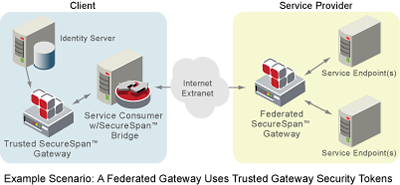
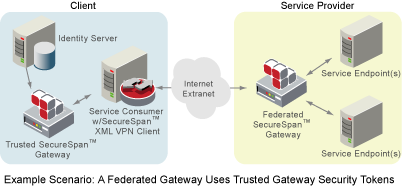
Rebranding "Bridge" as "XML VPN Client"
git-svn-id: https://thesource.l7tech.com/thesource/UneasyRooster/trunk@15561 219f1c6e-4a0e-43c8-96f2-6e749be13fd4

diff --git a/src/com/l7tech/proxy/gui/Main.java b/src/com/l7tech/proxy/gui/Main.java
@@ -6,6 +6,8 @@ import com.l7tech.common.util.JdkLoggerConfigurator;
 import com.l7tech.proxy.datamodel.Managers;
 import com.l7tech.proxy.datamodel.SsgManagerImpl;
 import com.l7tech.proxy.ClientProxy;
+import com.l7tech.proxy.Constants;
+
 import org.mortbay.util.MultiException;
 
 import java.net.BindException;
@@ -60,7 +62,7 @@ public final class Main extends com.l7tech.proxy.Main {
         
         JdkLoggerConfigurator.configure("com.l7tech.proxy", "com/l7tech/proxy/resources/cliLogging.properties");
         JceProvider.init();
-        log.info("Starting SecureSpan Bridge GUI Configuration Editor; " + BuildInfo.getLongBuildString());
+        log.info("Starting SecureSpan "+ Constants.APP_NAME +" GUI Configuration Editor; " + BuildInfo.getLongBuildString());
 
         if (hideMenus && quitLabel == null) 
             quitLabel = "Quit";
@@ -86,7 +88,7 @@ public final class Main extends com.l7tech.proxy.Main {
 
     private static void startGuiBridge() {
         initLogging();
-        log.info("Starting SecureSpan Bridge in GUI mode; " + BuildInfo.getLongBuildString());
+        log.info("Starting SecureSpan "+ Constants.APP_NAME +" in GUI mode; " + BuildInfo.getLongBuildString());
 
         final SsgManagerImpl ssgManager = SsgManagerImpl.getSsgManagerImpl();
         final ClientProxy clientProxy = createClientProxy(ssgManager);
@@ -102,12 +104,12 @@ public final class Main extends com.l7tech.proxy.Main {
         try {
             clientProxy.start();
         } catch (Exception e) {
-            String message = "Unable to start the Bridge: " + e;
+            String message = "Unable to start the "+ Constants.APP_NAME +": " + e;
             // Friendlier error message for starting multiple instances
             if (e instanceof BindException ||
               (e instanceof MultiException && ((MultiException)e).getException(0) instanceof BindException)) {
-                message = "The SecureSpan Bridge is already running.  \nPlease shut down the existing " +
-                  "Bridge and try again.";
+                message = "The SecureSpan "+ Constants.APP_NAME +" is already running.  \nPlease shut down the existing " +
+                  Constants.APP_NAME + " and try again.";
             }
 
             Gui.errorMessage(message);

diff --git a/src/com/l7tech/server/GatewayFeatureSets.java b/src/com/l7tech/server/GatewayFeatureSets.java
@@ -122,7 +122,7 @@ public class GatewayFeatureSets {
             ass(JmsRoutingAssertion.class));
 
         GatewayFeatureSet ssb =
-        fsr("set:ssb", "Features needed for best use of the SecureSpan Bridge",
+        fsr("set:ssb", "Features needed for best use of the SecureSpan XML VPN Client",
             srv(SERVICE_CSRHANDLER, "Certificate signer (CA) service"),
             srv(SERVICE_PASSWD, "Internal user password change service"),
             srv(SERVICE_POLICYDISCO, "Policy discovery service"),
@@ -391,7 +391,7 @@ public class GatewayFeatureSets {
             fs(threatAccel));
 
         fsp("set:Profile:Firewall", "SecureSpan Firewall",
-            "XML firewall with custom assertions.  No BRA, no JMS, no special Bridge support",
+            "XML firewall with custom assertions.  No BRA, no JMS, no special XML VPN Client support",
             fs(core),
             fs(admin),
             fs(accessFw),
@@ -407,7 +407,7 @@ public class GatewayFeatureSets {
         PROFILE_ALL =
         fsp("set:Profile:Gateway", "SecureSpan Gateway",
             "All features enabled.",
-            misc("bundle:Bridge", "Bundled SecureSpan Bridge", "No effect on Gateway license code -- only purpose is to distinguish two otherwise-identical feature sets"),
+            misc("bundle:Bridge", "Bundled SecureSpan XML VPN Client", "No effect on Gateway license code -- only purpose is to distinguish two otherwise-identical feature sets"),
             fs(core),
             fs(admin),
             fs(accessGateway),
@@ -424,7 +424,7 @@ public class GatewayFeatureSets {
             fs(experimental));
 
         fsp("set:Profile:Federal", "SecureSpan Federal",
-            "Exactly the same features as SecureSpan Gateway, but Bridge software is not bundled.",
+            "Exactly the same features as SecureSpan Gateway, but XML VPN Client software is not bundled.",
             fs(core),
             fs(admin),
             fs(accessGateway),

diff --git a/src/com/l7tech/proxy/gui/Gui.java b/src/com/l7tech/proxy/gui/Gui.java
@@ -8,6 +8,7 @@ import com.l7tech.common.gui.util.Utilities;
 import com.l7tech.common.gui.util.HelpUtil;
 import com.l7tech.common.util.JavaVersionChecker;
 import com.l7tech.proxy.RequestInterceptor;
+import com.l7tech.proxy.Constants;
 import com.l7tech.proxy.datamodel.SsgManager;
 import com.l7tech.proxy.gui.dialogs.AboutBox;
 import com.l7tech.proxy.gui.util.IconManager;
@@ -34,7 +35,7 @@ public class Gui {
     // that uses it
     private static final String APPLICATION_HOME_PROPERTY = "com.l7tech.applicationHome";
 
-    public static final String APP_NAME = "SecureSpan Bridge";
+    public static final String APP_NAME = "SecureSpan " + Constants.APP_NAME;
 
     private static final String KUNSTSTOFF_CLASSNAME = "com.incors.plaf.kunststoff.KunststoffLookAndFeel";
     private static final String KUNSTSTOFF_THEME_CLASSNAME = "com.incors.plaf.kunststoff.themes.KunststoffDesktopTheme";
@@ -46,7 +47,7 @@ public class Gui {
     private JFrame frame;
     private MessageViewer messageViewer;
 
-    private static final String SYSTRAY_TOOLTIP = "SecureSpan Bridge";
+    private static final String SYSTRAY_TOOLTIP = APP_NAME;
     private static final String WINDOW_TITLE = APP_NAME;
     private static final String WINDOW_TITLE_CONFIG = "Configure " + APP_NAME;
     private static final String MESSAGE_WINDOW_TITLE = "Recent Message Traffic";
@@ -257,7 +258,7 @@ public class Gui {
 
         SysTrayMenuItem smExit = new SysTrayMenuItem( "Exit", "exit" );
         smExit.addSysTrayMenuListener( systrayListener );
-        SysTrayMenuItem smShow = new SysTrayMenuItem( "Show Bridge window", "show" );
+        SysTrayMenuItem smShow = new SysTrayMenuItem( "Show "+ Constants.APP_NAME+" window", "show" );
         smShow.addSysTrayMenuListener( systrayListener );
 
         sysTrayMenu = new SysTrayMenu( systrayMenuIcon, SYSTRAY_TOOLTIP );

diff --git a/src/com/l7tech/proxy/gui/dialogs/SsgNetworkPanel.java b/src/com/l7tech/proxy/gui/dialogs/SsgNetworkPanel.java
@@ -12,17 +12,15 @@ import com.l7tech.common.gui.util.RunOnChangeListener;
 import com.l7tech.common.gui.widgets.ContextMenuTextField;
 import com.l7tech.common.gui.widgets.IpListPanel;
 import com.l7tech.common.gui.widgets.WrappingLabel;
-import com.l7tech.common.gui.MaxLengthDocument;
 import com.l7tech.common.gui.FilterDocument;
 import com.l7tech.common.util.HexUtils;
 import com.l7tech.common.util.SyspropUtil;
 import com.l7tech.proxy.datamodel.Ssg;
+import com.l7tech.proxy.Constants;
 
 import javax.swing.*;
 import javax.swing.event.ChangeEvent;
 import javax.swing.event.ChangeListener;
-import javax.swing.event.DocumentListener;
-import javax.swing.event.DocumentEvent;
 import java.awt.*;
 import java.awt.event.ActionListener;
 import java.awt.event.ActionEvent;
@@ -83,7 +81,7 @@ class SsgNetworkPanel extends JPanel {
 
         // Endpoint panel
 
-        WrappingLabel splain01 = new WrappingLabel("The SecureSpan Bridge listens for incoming messages at the " +
+        WrappingLabel splain01 = new WrappingLabel("The SecureSpan "+ Constants.APP_NAME +" listens for incoming messages at the " +
                                                    "following local proxy URL, then routes the messages to the " +
                                                    "SecureSpan Gateway:", 2);
         //x,y,rows,col,anchor,fill,sizex,sizey,minsize,prefsize,maxsize
@@ -157,7 +155,7 @@ class SsgNetworkPanel extends JPanel {
             }
         }));
 
-        WrappingLabel splain02 = new WrappingLabel("The SecureSpan Bridge offers proxied WSDL lookups at the " +
+        WrappingLabel splain02 = new WrappingLabel("The SecureSpan "+ Constants.APP_NAME +" offers proxied WSDL lookups at the " +
                                                    "following local WSDL URL:", 1);
         wsdlUrlLabelPanel.add(splain02, gc);
 

diff --git a/src/com/l7tech/proxy/processor/MessageProcessor.java b/src/com/l7tech/proxy/processor/MessageProcessor.java
@@ -31,9 +31,8 @@ import com.l7tech.common.xml.SoapFaultDetail;
 import com.l7tech.policy.assertion.AssertionStatus;
 import com.l7tech.policy.assertion.PolicyAssertionException;
 import com.l7tech.policy.assertion.SslAssertion;
-import com.l7tech.policy.AssertionRegistry;
-import com.l7tech.policy.wsp.WspConstants;
 import com.l7tech.proxy.ConfigurationException;
+import com.l7tech.proxy.Constants;
 import com.l7tech.proxy.datamodel.FederatedSamlTokenStrategy;
 import com.l7tech.proxy.datamodel.Managers;
 import com.l7tech.proxy.datamodel.Policy;
@@ -162,7 +161,7 @@ public class MessageProcessor {
                                     // We were talking to something else, probably a token provider.
                                     handleSslExceptionForWsTrustTokenService(ssg, sslPeer, e);
                                 else
-                                    throw new ConfigurationException("Internal Bridge error: server certificate untrusted, but no SSL peer", e);
+                                    throw new ConfigurationException("Internal "+ Constants.APP_NAME+" error: server certificate untrusted, but no SSL peer", e);
                             } else
                                 ssg.getRuntime().getSsgKeyStoreManager().installSsgServerCertificate(ssg, context.getCredentialsForTrustedSsg()); // might throw BadCredentialsException
                             // FALLTHROUGH allow policy to reset and retry

diff --git a/src/com/l7tech/proxy/datamodel/CredentialManagerImpl.java b/src/com/l7tech/proxy/datamodel/CredentialManagerImpl.java
@@ -9,6 +9,7 @@ package com.l7tech.proxy.datamodel;
 import com.l7tech.proxy.datamodel.exceptions.CredentialsUnavailableException;
 import com.l7tech.proxy.datamodel.exceptions.OperationCanceledException;
 import com.l7tech.proxy.ssl.SslPeer;
+import com.l7tech.proxy.Constants;
 
 import java.net.PasswordAuthentication;
 import java.security.cert.X509Certificate;
@@ -79,7 +80,7 @@ public class CredentialManagerImpl extends CredentialManager {
 
     public void notifySslCertificateUntrusted(SslPeer sslPeer, String serverDesc, X509Certificate untrustedCertificate) throws OperationCanceledException {
         String msg = "The authenticity of the SSL server certificate could not be established automatically, " +
-                "and the user cannot be prompted because the Bridge is running in non-interactive mode.  Possible reasons:\n" + 
+                "and the user cannot be prompted because the "+ Constants.APP_NAME +" is running in non-interactive mode.  Possible reasons:\n" +
                 " -missing or incorrect username or password;\n -password unavailable to the Gateway;\n -server is not a Trusted Gateway";
         log.log(Level.SEVERE, msg);
         throw new OperationCanceledException(msg);

diff --git a/src/com/l7tech/proxy/RequestHandler.java b/src/com/l7tech/proxy/RequestHandler.java
@@ -385,13 +385,13 @@ public class RequestHandler extends AbstractHttpHandler {
 
         response.addField(MimeUtil.CONTENT_TYPE, "text/html");
         PrintStream o = new PrintStream(response.getOutputStream());
-        o.println("<html><head><title>SecureSpan Bridge</title></head>" +
-          "<body><h2>SecureSpan Bridge</h2>");
+        o.println("<html><head><title>SecureSpan "+ Constants.APP_NAME+"</title></head>" +
+          "<body><h2>SecureSpan "+ Constants.APP_NAME+"</h2>");
         List ssgs = ssgFinder.getSsgList();
         if (ssgs.isEmpty()) {
-            o.println("<p>There are currently no Gateways registered with SecureSpan Bridge.");
+            o.println("<p>There are currently no Gateways registered with SecureSpan "+ Constants.APP_NAME+".");
         } else {
-            o.println("<p>SecureSpan Bridge is ready to proxy services provided by the following Gateways:</p><ul>");
+            o.println("<p>SecureSpan "+ Constants.APP_NAME+" is ready to proxy services provided by the following Gateways:</p><ul>");
             int port = clientProxy.getBindPort();
             for (Iterator i = ssgs.iterator(); i.hasNext();) {
                 Ssg ssg = (Ssg)i.next();

diff --git a/src/com/l7tech/proxy/cli/SsgNoun.java b/src/com/l7tech/proxy/cli/SsgNoun.java
@@ -10,6 +10,7 @@ import com.l7tech.common.util.TextUtils;
 import com.l7tech.common.util.ExceptionUtils;
 import com.l7tech.proxy.datamodel.Ssg;
 import com.l7tech.proxy.datamodel.exceptions.*;
+import com.l7tech.proxy.Constants;
 
 import java.io.ByteArrayOutputStream;
 import java.io.File;
@@ -285,8 +286,8 @@ class SsgNoun extends Noun {
     }
 
     private static final String OVERVIEW_HELP_TEXT =
-            "The Gateway Account is at the heart of the SecureSpan Bridge.  Each \n" +
-                    "Gateway Account holds a set of Bridge credentials for a target Gateway.";
+            "The Gateway Account is at the heart of the SecureSpan "+ Constants.APP_NAME+".  Each \n" +
+                    "Gateway Account holds a set of "+ Constants.APP_NAME+" credentials for a target Gateway.";
 
     private static final String EXAMPLE_COMMANDS = "Example Commands: show gateways\n" +
             "                  gateway32 request clientCert\n" +

diff --git a/src/com/l7tech/proxy/gui/dialogs/SsgPoliciesPanel.java b/src/com/l7tech/proxy/gui/dialogs/SsgPoliciesPanel.java
@@ -26,6 +26,8 @@ import com.l7tech.proxy.gui.Gui;
 import com.l7tech.proxy.gui.policy.PolicyTreeCellRenderer;
 import com.l7tech.proxy.gui.policy.PolicyTreeModel;
 import com.l7tech.proxy.policy.assertion.ClientAssertion;
+import com.l7tech.proxy.Constants;
+
 import org.w3c.dom.Document;
 import org.xml.sax.SAXException;
 
@@ -101,7 +103,7 @@ class SsgPoliciesPanel extends JPanel {
         JPanel pane = this;
         setBorder(BorderFactory.createEmptyBorder());
 
-        pane.add(new JLabel("<HTML><h4>Service Policies Being Cached by Bridge</h4></HTML>"),
+        pane.add(new JLabel("<HTML><h4>Service Policies Being Cached by "+ Constants.APP_NAME +"</h4></HTML>"),
                  new GridBagConstraints(0, y, 1, 1, 1.0, 0.0,
                                         GridBagConstraints.NORTHWEST,
                                         GridBagConstraints.HORIZONTAL,

diff --git a/src/com/l7tech/proxy/Main.java b/src/com/l7tech/proxy/Main.java
@@ -133,7 +133,7 @@ public class Main {
     public static void main(final String[] argv) {
         initLogging();
         initConfig();
-        log.info("Starting SecureSpan Bridge in non-interactive mode; " + BuildInfo.getLongBuildString());
+        log.info("Starting SecureSpan "+ Constants.APP_NAME +" in non-interactive mode; " + BuildInfo.getLongBuildString());
 
         final SsgFinderImpl ssgFinderImpl = SsgFinderImpl.getSsgFinderImpl();
         final ClientProxy clientProxy = createClientProxy(ssgFinderImpl);
@@ -152,7 +152,7 @@ public class Main {
         try {
             clientProxy.start();
         } catch (Exception e) {
-            log.log(Level.SEVERE, "Unable to start Layer 7 SecureSpan Bridge", e);
+            log.log(Level.SEVERE, "Unable to start Layer 7 SecureSpan " + Constants.APP_NAME, e);
             System.exit(2);
         }
 

diff --git a/src/com/l7tech/proxy/gui/dialogs/SsgPropertyDialog.java b/src/com/l7tech/proxy/gui/dialogs/SsgPropertyDialog.java
@@ -13,6 +13,7 @@ import com.l7tech.common.util.TextUtils;
 import com.l7tech.common.util.ValidationUtils;
 import com.l7tech.common.xml.WsTrustRequestType;
 import com.l7tech.proxy.ClientProxy;
+import com.l7tech.proxy.Constants;
 import com.l7tech.proxy.datamodel.*;
 import com.l7tech.proxy.datamodel.exceptions.*;
 import com.l7tech.proxy.gui.Gui;
@@ -82,7 +83,7 @@ public class SsgPropertyDialog extends PropertyDialog implements SsgListener {
             ssg.setUseSslByDefault(false);
             getBridgePolicyPane(); // hide the bridge policy pane for generic services
         } else {
-            tabbedPane.add("Bridge Policy", getBridgePolicyPane());
+            tabbedPane.add(Constants.APP_NAME +" Policy", getBridgePolicyPane());
         }
         tabbedPane.add("Service Policies", getPoliciesPane());
         ssg.addSsgListener(this);

diff --git a/src/com/l7tech/proxy/cli/ClientCertProperty.java b/src/com/l7tech/proxy/cli/ClientCertProperty.java
@@ -11,6 +11,7 @@ import com.l7tech.proxy.datamodel.exceptions.KeyStoreCorruptException;
 import com.l7tech.proxy.datamodel.exceptions.BadCredentialsException;
 import com.l7tech.proxy.datamodel.exceptions.OperationCanceledException;
 import com.l7tech.proxy.datamodel.exceptions.HttpChallengeRequiredException;
+import com.l7tech.proxy.Constants;
 
 import java.io.PrintStream;
 import java.io.IOException;
@@ -24,7 +25,7 @@ class ClientCertProperty extends NounProperty {
     private SsgNoun ssgNoun;
 
     public ClientCertProperty(SsgNoun ssgNoun) {
-        super(ssgNoun.ssg, "clientCert", "ClientCertificate", "Bridge X.509 client ceritifcate");
+        super(ssgNoun.ssg, "clientCert", "ClientCertificate", Constants.APP_NAME+" X.509 client ceritifcate");
         this.ssgNoun = ssgNoun;
     }
 
